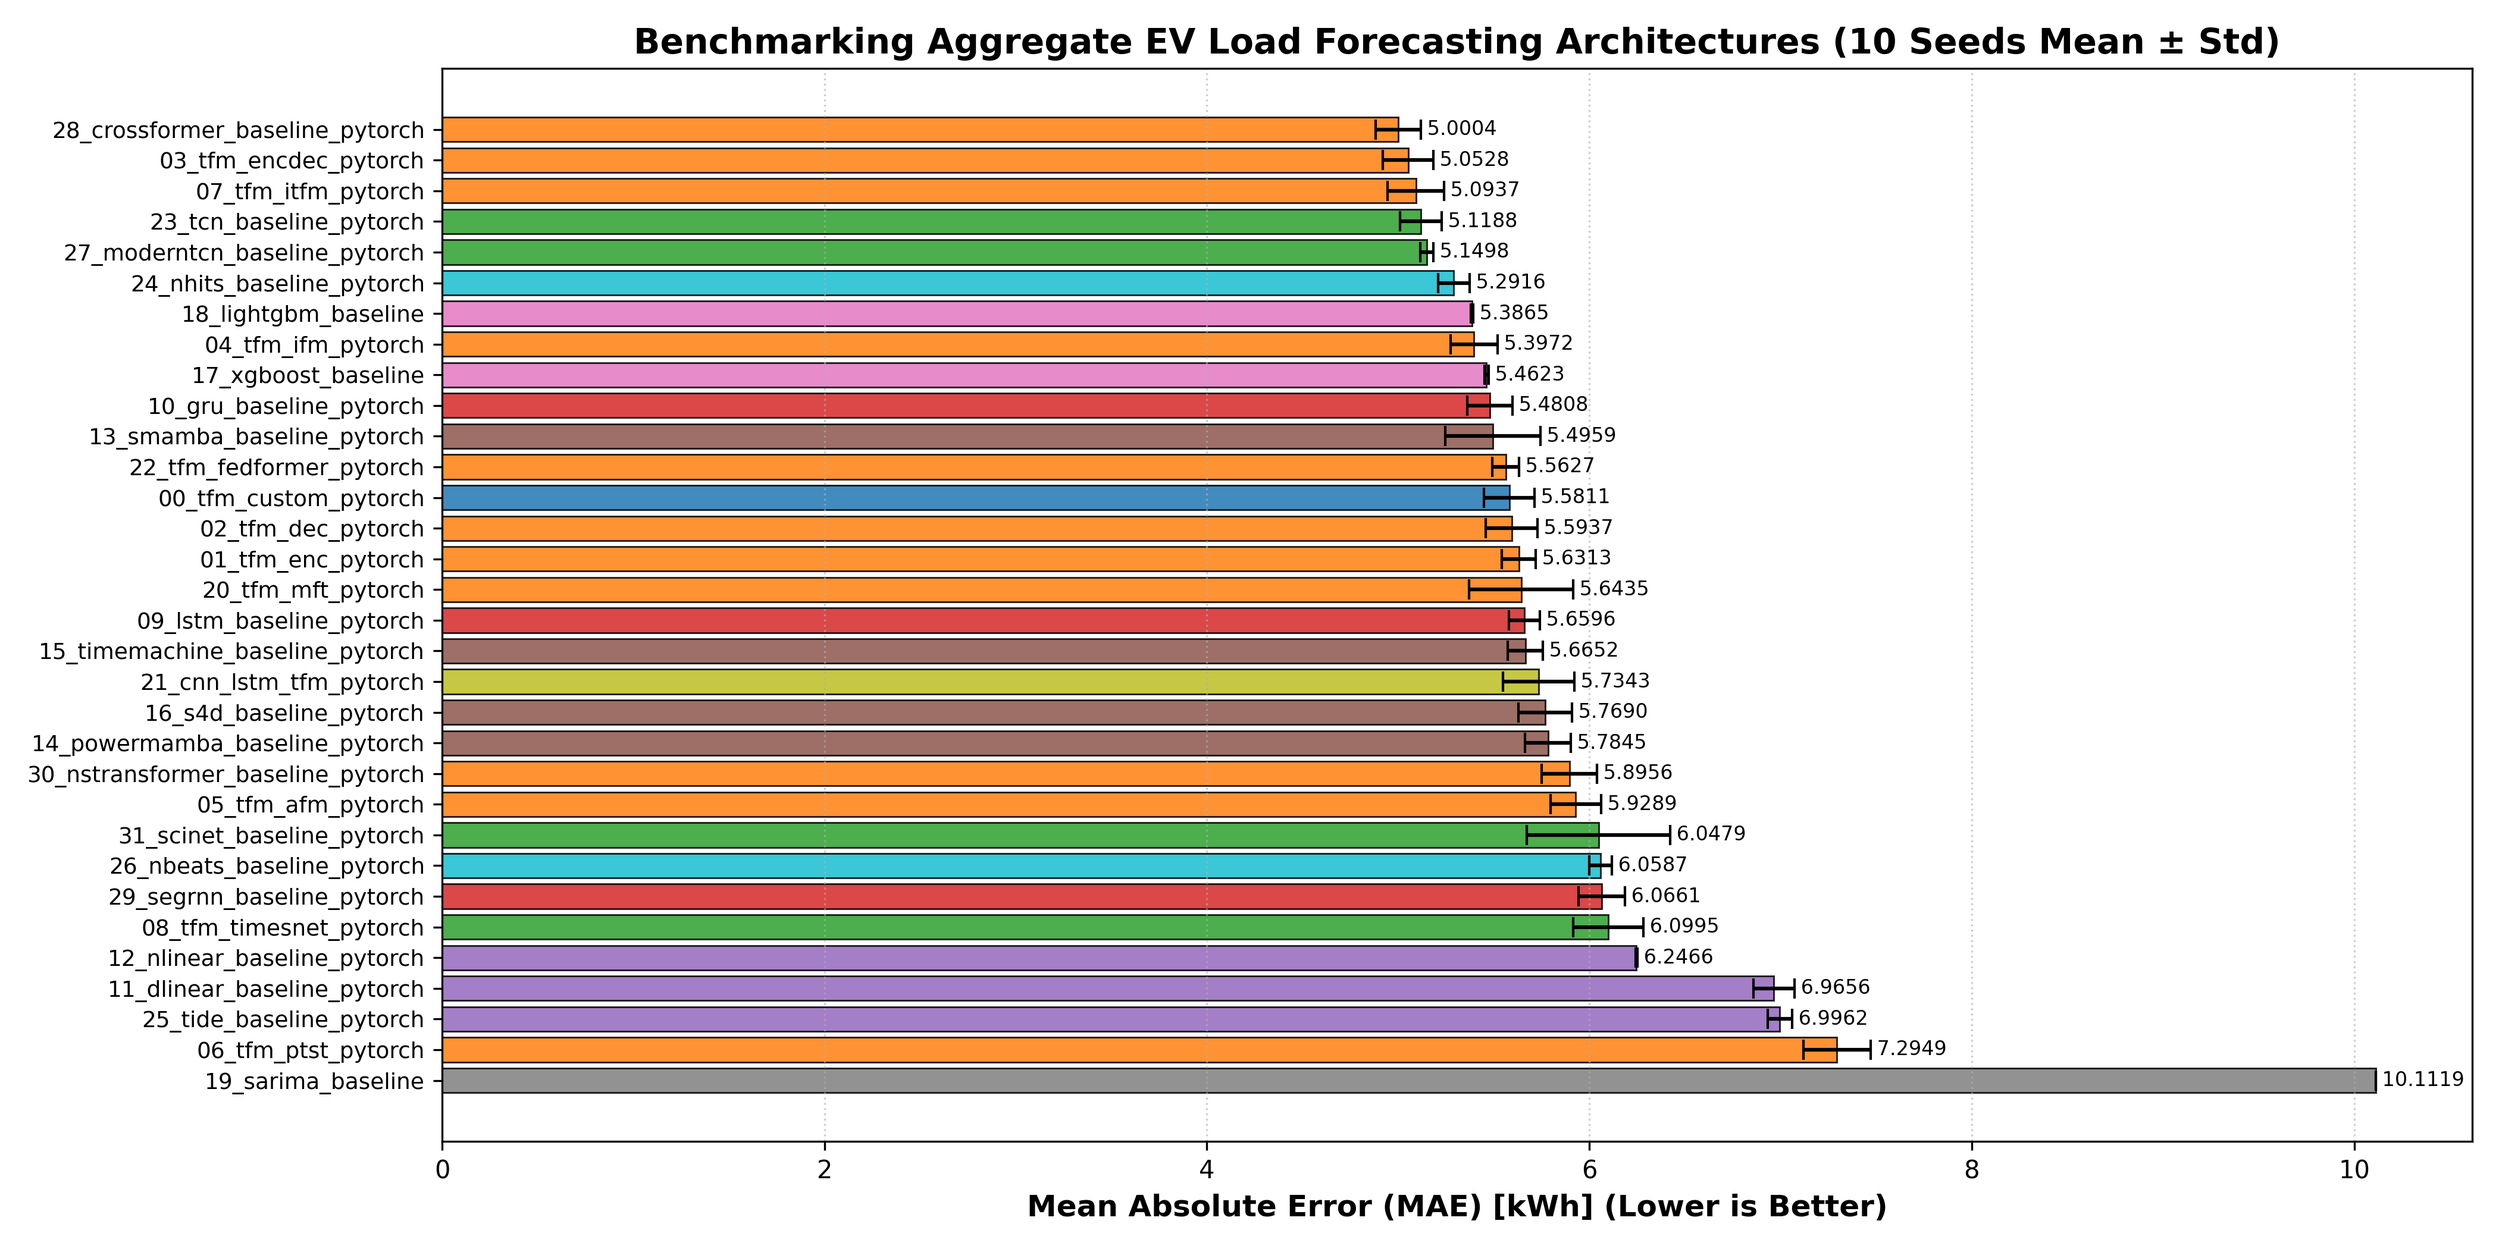
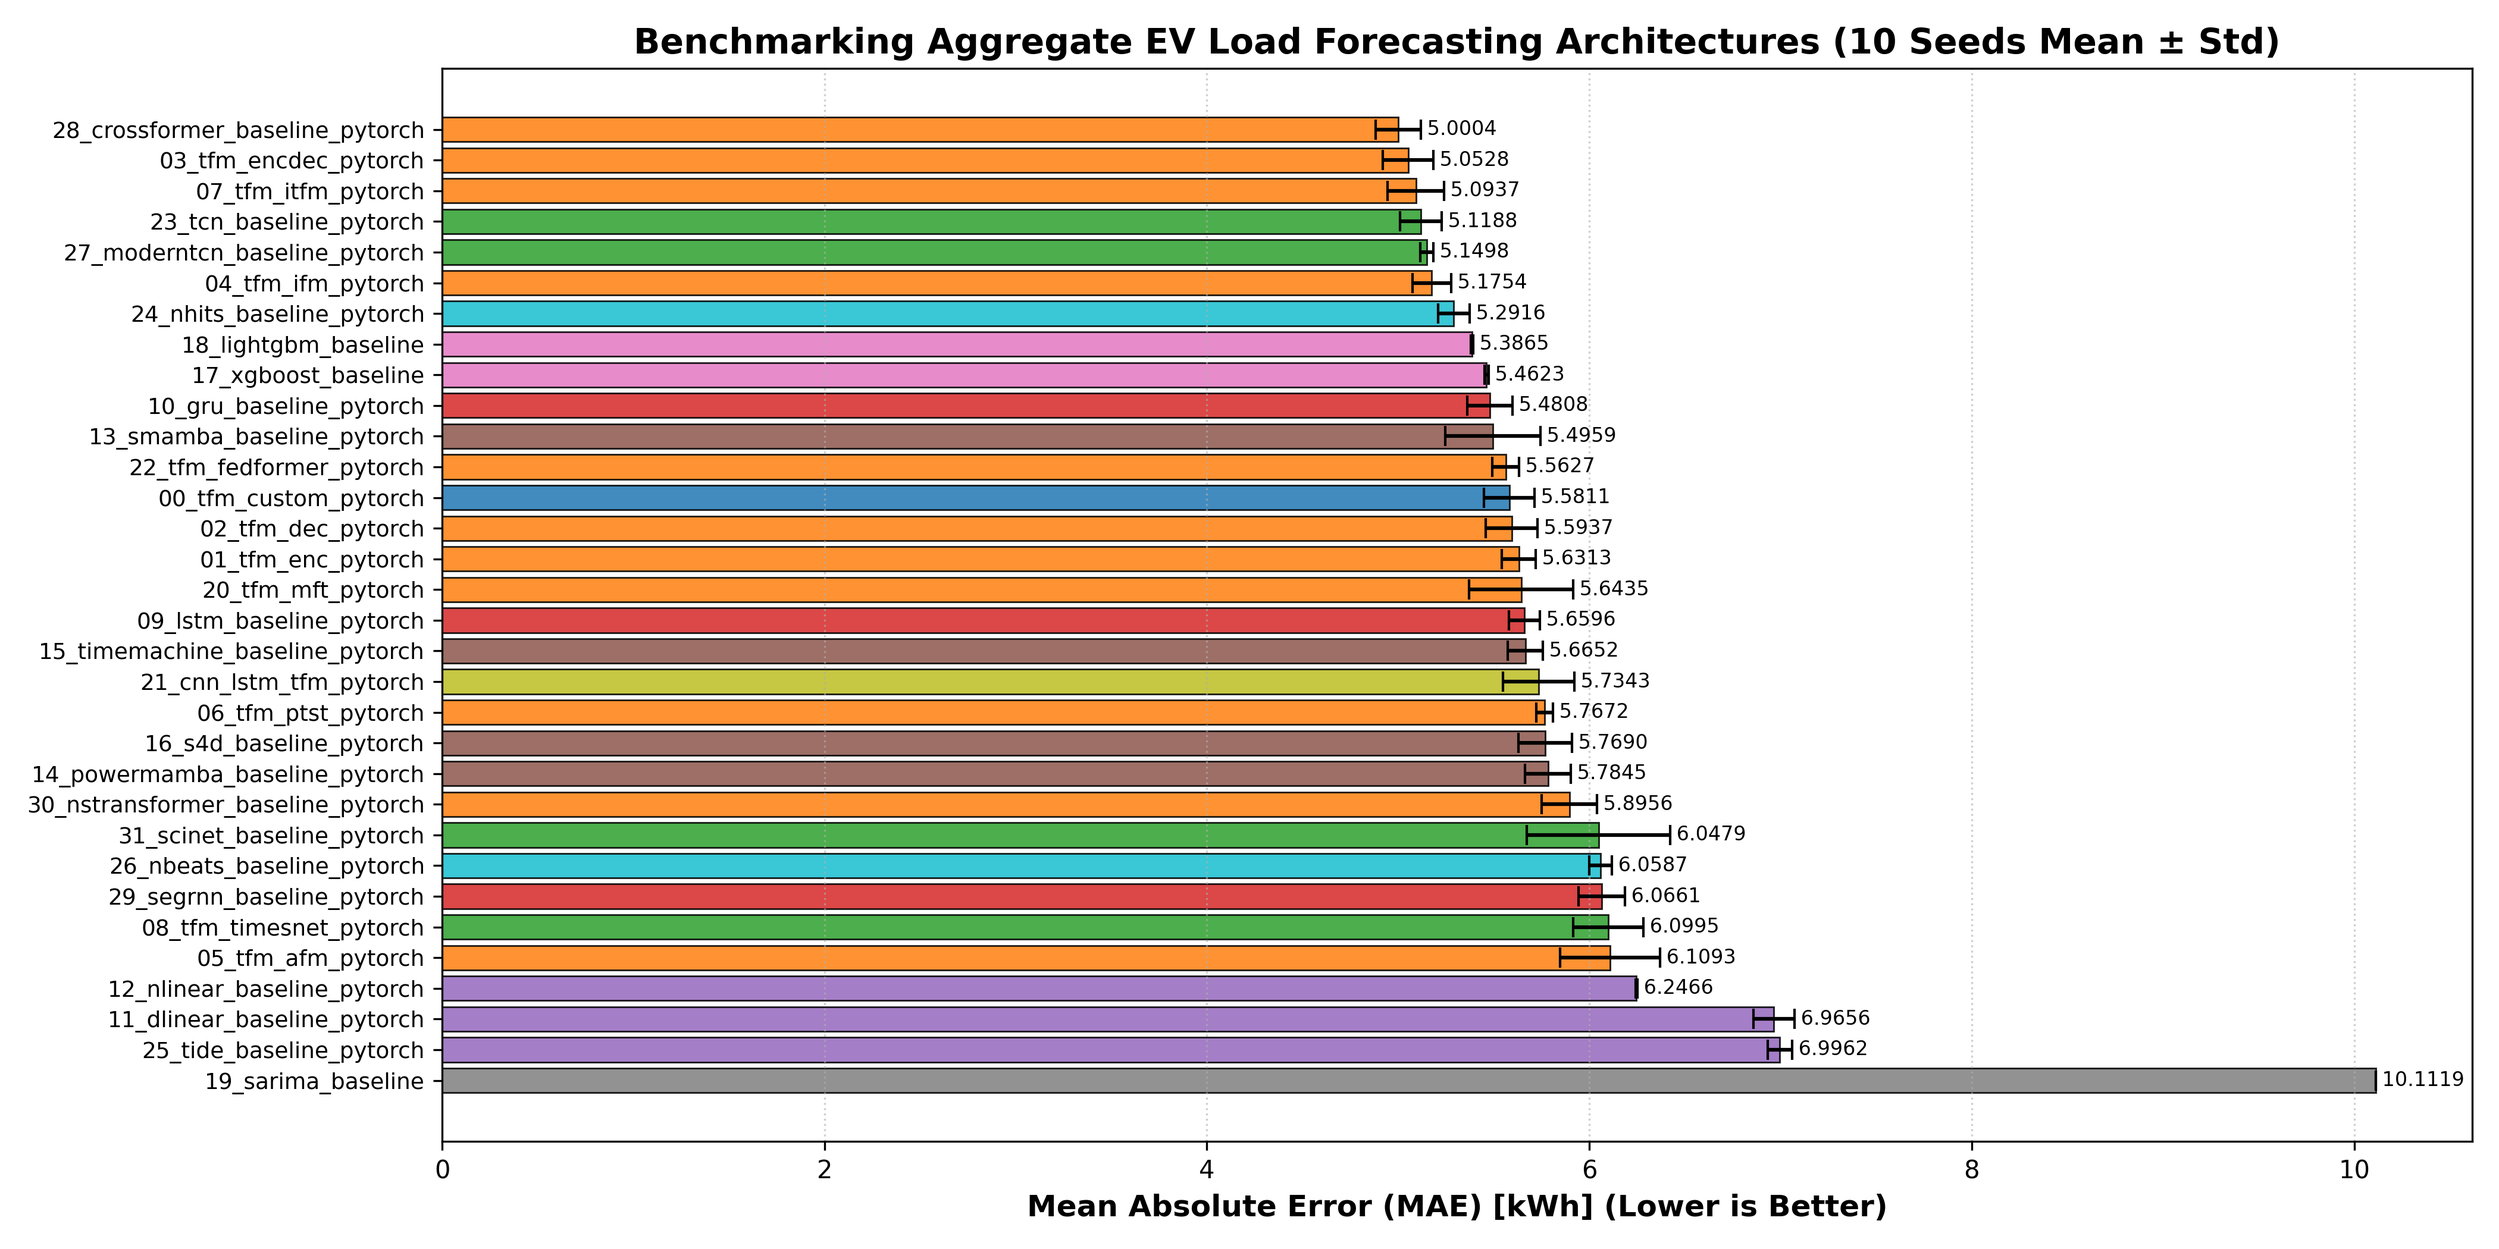
docs(benchmark): update 32-model rankings, plots, and document architectural pitfalls on EV load

diff --git a/docs/benchmark_summary.tex b/docs/benchmark_summary.tex
@@ -12,9 +12,9 @@
 07\_tfm\_itfm\_pytorch & Transformer & $5.0937 \pm 0.1477$ & $7.5109 \pm 0.1545$ & $59.82 \pm 1.73$ & $0.7055$ & N/A \\
 23\_tcn\_baseline\_pytorch & CNN / 2D Temporal & $5.1188 \pm 0.1077$ & $7.4927 \pm 0.1225$ & $60.11 \pm 1.27$ & $0.7069$ & 161,392 \\
 27\_moderntcn\_baseline\_pytorch & CNN (ModernTCN) & $5.1498 \pm 0.0340$ & $8.0072 \pm 0.0735$ & $60.48 \pm 0.40$ & $0.6654$ & 767,112 \\
+04\_tfm\_ifm\_pytorch & Transformer & $5.1754 \pm 0.1009$ & $7.9190 \pm 0.1008$ & $60.78 \pm 1.19$ & $0.6727$ & 654,337 \\
 24\_nhits\_baseline\_pytorch & Basis Expansion & $5.2916 \pm 0.0827$ & $7.7747 \pm 0.1053$ & $62.14 \pm 0.97$ & $0.6845$ & 2,308,530 \\
 18\_lightgbm\_baseline & Tree-based GBDT & $5.3865 \pm 0.0059$ & $8.1150 \pm 0.0070$ & $63.26 \pm 0.07$ & $0.6563$ & 48,000 \\
-04\_tfm\_ifm\_pytorch & Transformer & $5.3972 \pm 0.1241$ & $8.0262 \pm 0.1322$ & $63.38 \pm 1.46$ & $0.6637$ & 120,592 \\
 17\_xgboost\_baseline & Tree-based GBDT & $5.4623 \pm 0.0099$ & $8.1352 \pm 0.0087$ & $64.15 \pm 0.12$ & $0.6546$ & 48,000 \\
 10\_gru\_baseline\_pytorch & Recurrent (RNN) & $5.4808 \pm 0.1177$ & $7.8744 \pm 0.1160$ & $64.37 \pm 1.38$ & $0.6763$ & 54,640 \\
 13\_smamba\_baseline\_pytorch & State Space Model & $5.4959 \pm 0.2483$ & $8.7047 \pm 0.4660$ & $64.54 \pm 2.92$ & $0.6034$ & 333,288 \\
@@ -26,18 +26,18 @@
 09\_lstm\_baseline\_pytorch & Recurrent (RNN) & $5.6596 \pm 0.0804$ & $8.1586 \pm 0.1706$ & $66.47 \pm 0.94$ & $0.6525$ & 62,960 \\
 15\_timemachine\_baseline\_pytorch & State Space Model & $5.6652 \pm 0.0910$ & $8.1436 \pm 0.0790$ & $66.53 \pm 1.07$ & $0.6539$ & 38,448 \\
 21\_cnn\_lstm\_tfm\_pytorch & Hybrid Architecture & $5.7343 \pm 0.1865$ & $8.4143 \pm 0.2966$ & $67.34 \pm 2.19$ & $0.6301$ & 685,104 \\
+06\_tfm\_ptst\_pytorch & Transformer & $5.7672 \pm 0.0432$ & $9.2539 \pm 0.0509$ & $67.73 \pm 0.51$ & $0.5531$ & 542,056 \\
 16\_s4d\_baseline\_pytorch & State Space Model & $5.7690 \pm 0.1409$ & $8.3191 \pm 0.1640$ & $67.75 \pm 1.65$ & $0.6387$ & 27,984 \\
 14\_powermamba\_baseline\_pytorch & State Space Model & $5.7845 \pm 0.1200$ & $8.2071 \pm 0.1632$ & $67.93 \pm 1.41$ & $0.6483$ & 45,360 \\
 30\_nstransformer\_baseline\_pytorch & Transformer (NS-Tfm) & $5.8956 \pm 0.1437$ & $8.6152 \pm 0.1732$ & $69.24 \pm 1.69$ & $0.6125$ & 113,873 \\
-05\_tfm\_afm\_pytorch & Transformer & $5.9289 \pm 0.1330$ & $8.6172 \pm 0.1860$ & $69.63 \pm 1.56$ & $0.6123$ & 926,978 \\
 31\_scinet\_baseline\_pytorch & Convolutional (SCINet) & $6.0479 \pm 0.3763$ & $8.5736 \pm 0.4783$ & $71.03 \pm 4.42$ & $0.6152$ & 18,376,753 \\
 26\_nbeats\_baseline\_pytorch & Basis Expansion & $6.0587 \pm 0.0586$ & $9.3085 \pm 0.0304$ & $71.15 \pm 0.69$ & $0.5478$ & 1,036,864 \\
 29\_segrnn\_baseline\_pytorch & Recurrent (SegRNN) & $6.0661 \pm 0.1210$ & $9.4696 \pm 0.0945$ & $71.24 \pm 1.42$ & $0.5320$ & 800,012 \\
 08\_tfm\_timesnet\_pytorch & CNN / 2D Temporal & $6.0995 \pm 0.1824$ & $8.8674 \pm 0.2681$ & $71.63 \pm 2.14$ & $0.5893$ & N/A \\
+05\_tfm\_afm\_pytorch & Transformer & $6.1093 \pm 0.2615$ & $8.8067 \pm 0.3654$ & $71.75 \pm 3.07$ & $0.5945$ & 350,210 \\
 12\_nlinear\_baseline\_pytorch & Linear & Decomp & $6.2466 \pm 0.0036$ & $10.4387 \pm 0.0011$ & $73.36 \pm 0.04$ & $0.4313$ & 4,656 \\
 11\_dlinear\_baseline\_pytorch & Linear & Decomp & $6.9656 \pm 0.1071$ & $10.4281 \pm 0.0434$ & $81.80 \pm 1.26$ & $0.4325$ & 9,312 \\
 25\_tide\_baseline\_pytorch & Linear / Dense MLP & $6.9962 \pm 0.0631$ & $10.4550 \pm 0.0326$ & $82.16 \pm 0.74$ & $0.4295$ & 1,833,396 \\
-06\_tfm\_ptst\_pytorch & Transformer & $7.2949 \pm 0.1759$ & $10.7911 \pm 0.2136$ & $85.67 \pm 2.07$ & $0.3921$ & 542,056 \\
 19\_sarima\_baseline & Statistical Baseline & $10.1119 \pm 0.0000$ & $13.8129 \pm 0.0000$ & $108.27 \pm 0.00$ & $0.1407$ & 4 \\
 \bottomrule
 \end{tabular}%

diff --git a/docs/benchmark_summary.md b/docs/benchmark_summary.md
@@ -10,9 +10,9 @@
 | 3 | `07_tfm_itfm_pytorch` | Transformer | 5.0937 ± 0.1477 | 7.5109 ± 0.1545 | 59.82% ± 1.73% | **11.1202** | 0.7055 | N/A | 60.7s |
 | 4 | `23_tcn_baseline_pytorch` | CNN / 2D Temporal | 5.1188 ± 0.1077 | 7.4927 ± 0.1225 | 60.11% ± 1.27% | 13.3974 | 0.7069 | 161,392 | 20.3s |
 | 5 | `27_moderntcn_baseline_pytorch` | CNN (ModernTCN) | 5.1498 ± 0.0340 | 8.0072 ± 0.0735 | 60.48% ± 0.40% | 15.7185 | 0.6654 | 767,112 | 37.2s |
-| 6 | `24_nhits_baseline_pytorch` | Basis Expansion | 5.2916 ± 0.0827 | 7.7747 ± 0.1053 | 62.14% ± 0.97% | 12.9767 | 0.6845 | 2,308,530 | 27.5s |
-| 7 | `18_lightgbm_baseline` | Tree-based GBDT | 5.3865 ± 0.0059 | 8.1150 ± 0.0070 | 63.26% ± 0.07% | 14.7259 | 0.6563 | 48,000 | 196.4s |
-| 8 | `04_tfm_ifm_pytorch` | Transformer | 5.3972 ± 0.1241 | 8.0262 ± 0.1322 | 63.38% ± 1.46% | 13.2090 | 0.6637 | 120,592 | 208.3s |
+| 6 | `04_tfm_ifm_pytorch` | Transformer | 5.1754 ± 0.1009 | 7.9190 ± 0.1008 | 60.78% ± 1.19% | 12.4838 | 0.6727 | 654,337 | 62.3s |
+| 7 | `24_nhits_baseline_pytorch` | Basis Expansion | 5.2916 ± 0.0827 | 7.7747 ± 0.1053 | 62.14% ± 0.97% | 12.9767 | 0.6845 | 2,308,530 | 27.5s |
+| 8 | `18_lightgbm_baseline` | Tree-based GBDT | 5.3865 ± 0.0059 | 8.1150 ± 0.0070 | 63.26% ± 0.07% | 14.7259 | 0.6563 | 48,000 | 196.4s |
 | 9 | `17_xgboost_baseline` | Tree-based GBDT | 5.4623 ± 0.0099 | 8.1352 ± 0.0087 | 64.15% ± 0.12% | 14.7549 | 0.6546 | 48,000 | 49.5s |
 | 10 | `10_gru_baseline_pytorch` | Recurrent (RNN) | 5.4808 ± 0.1177 | 7.8744 ± 0.1160 | 64.37% ± 1.38% | 13.3875 | 0.6763 | 54,640 | 23.5s |
 | 11 | `13_smamba_baseline_pytorch` | State Space Model | 5.4959 ± 0.2483 | 8.7047 ± 0.4660 | 64.54% ± 2.92% | 17.2869 | 0.6034 | 333,288 | 358.2s |
@@ -24,16 +24,16 @@
 | 17 | `09_lstm_baseline_pytorch` | Recurrent (RNN) | 5.6596 ± 0.0804 | 8.1586 ± 0.1706 | 66.47% ± 0.94% | 13.7514 | 0.6525 | 62,960 | 12.9s |
 | 18 | `15_timemachine_baseline_pytorch` | State Space Model | 5.6652 ± 0.0910 | 8.1436 ± 0.0790 | 66.53% ± 1.07% | 14.6931 | 0.6539 | 38,448 | 428.0s |
 | 19 | `21_cnn_lstm_tfm_pytorch` | Hybrid Architecture | 5.7343 ± 0.1865 | 8.4143 ± 0.2966 | 67.34% ± 2.19% | 13.8747 | 0.6301 | 685,104 | 17.3s |
-| 20 | `16_s4d_baseline_pytorch` | State Space Model | 5.7690 ± 0.1409 | 8.3191 ± 0.1640 | 67.75% ± 1.65% | 13.4052 | 0.6387 | 27,984 | 19.4s |
-| 21 | `14_powermamba_baseline_pytorch` | State Space Model | 5.7845 ± 0.1200 | 8.2071 ± 0.1632 | 67.93% ± 1.41% | 14.2565 | 0.6483 | 45,360 | 107.4s |
-| 22 | `30_nstransformer_baseline_pytorch` | Transformer (NS-Tfm) | 5.8956 ± 0.1437 | 8.6152 ± 0.1732 | 69.24% ± 1.69% | 15.2207 | 0.6125 | 113,873 | 24.2s |
-| 23 | `05_tfm_afm_pytorch` | Transformer | 5.9289 ± 0.1330 | 8.6172 ± 0.1860 | 69.63% ± 1.56% | 14.2734 | 0.6123 | 926,978 | 48.1s |
+| 20 | `06_tfm_ptst_pytorch` | Transformer | 5.7672 ± 0.0432 | 9.2539 ± 0.0509 | 67.73% ± 0.51% | 18.7351 | 0.5531 | 542,056 | 166.4s |
+| 21 | `16_s4d_baseline_pytorch` | State Space Model | 5.7690 ± 0.1409 | 8.3191 ± 0.1640 | 67.75% ± 1.65% | 13.4052 | 0.6387 | 27,984 | 19.4s |
+| 22 | `14_powermamba_baseline_pytorch` | State Space Model | 5.7845 ± 0.1200 | 8.2071 ± 0.1632 | 67.93% ± 1.41% | 14.2565 | 0.6483 | 45,360 | 107.4s |
+| 23 | `30_nstransformer_baseline_pytorch` | Transformer (NS-Tfm) | 5.8956 ± 0.1437 | 8.6152 ± 0.1732 | 69.24% ± 1.69% | 15.2207 | 0.6125 | 113,873 | 24.2s |
 | 24 | `31_scinet_baseline_pytorch` | Convolutional (SCINet) | 6.0479 ± 0.3763 | 8.5736 ± 0.4783 | 71.03% ± 4.42% | 14.5122 | 0.6152 | 18,376,753 | 44.1s |
 | 25 | `26_nbeats_baseline_pytorch` | Basis Expansion | 6.0587 ± 0.0586 | 9.3085 ± 0.0304 | 71.15% ± 0.69% | 17.5791 | 0.5478 | 1,036,864 | 26.6s |
 | 26 | `29_segrnn_baseline_pytorch` | Recurrent (SegRNN) | 6.0661 ± 0.1210 | 9.4696 ± 0.0945 | 71.24% ± 1.42% | 16.9112 | 0.5320 | 800,012 | 38.8s |
 | 27 | `08_tfm_timesnet_pytorch` | CNN / 2D Temporal | 6.0995 ± 0.1824 | 8.8674 ± 0.2681 | 71.63% ± 2.14% | 16.1503 | 0.5893 | N/A | 127.9s |
-| 28 | `12_nlinear_baseline_pytorch` | Linear & Decomp | 6.2466 ± 0.0036 | 10.4387 ± 0.0011 | 73.36% ± 0.04% | 21.3976 | 0.4313 | 4,656 | 30.3s |
-| 29 | `11_dlinear_baseline_pytorch` | Linear & Decomp | 6.9656 ± 0.1071 | 10.4281 ± 0.0434 | 81.80% ± 1.26% | 19.6542 | 0.4325 | 9,312 | 24.6s |
-| 30 | `25_tide_baseline_pytorch` | Linear / Dense MLP | 6.9962 ± 0.0631 | 10.4550 ± 0.0326 | 82.16% ± 0.74% | 19.4354 | 0.4295 | 1,833,396 | 16.3s |
-| 31 | `06_tfm_ptst_pytorch` | Transformer | 7.2949 ± 0.1759 | 10.7911 ± 0.2136 | 85.67% ± 2.07% | 14.3890 | 0.3921 | 542,056 | 75.9s |
+| 28 | `05_tfm_afm_pytorch` | Transformer | 6.1093 ± 0.2615 | 8.8067 ± 0.3654 | 71.75% ± 3.07% | 14.2751 | 0.5945 | 350,210 | 172.3s |
+| 29 | `12_nlinear_baseline_pytorch` | Linear & Decomp | 6.2466 ± 0.0036 | 10.4387 ± 0.0011 | 73.36% ± 0.04% | 21.3976 | 0.4313 | 4,656 | 30.3s |
+| 30 | `11_dlinear_baseline_pytorch` | Linear & Decomp | 6.9656 ± 0.1071 | 10.4281 ± 0.0434 | 81.80% ± 1.26% | 19.6542 | 0.4325 | 9,312 | 24.6s |
+| 31 | `25_tide_baseline_pytorch` | Linear / Dense MLP | 6.9962 ± 0.0631 | 10.4550 ± 0.0326 | 82.16% ± 0.74% | 19.4354 | 0.4295 | 1,833,396 | 16.3s |
 | 32 | `19_sarima_baseline` | Statistical Baseline | 10.1119 ± 0.0000 | 13.8129 ± 0.0000 | 108.27% ± 0.00% | 20.3742 | 0.1407 | 4 | 11593.7s |

diff --git a/.wikiskill/wiki/model_pitfalls.md b/.wikiskill/wiki/model_pitfalls.md
@@ -49,4 +49,38 @@
 
 ## 6. Architecture Class Name Parity & Aliases
 - **Pitfall**: Defining `class ModelName(nn.Module):` but referencing `model = ModelNameModel(...)` in benchmark `run_seed` causes `NameError: name 'ModelNameModel' is not defined`.
-- **Rule**: Always verify instantiation matches class name exactly, and provide explicit aliases (e.g., `NHiTSModel = NHiTS`) when backward compatibility is helpful.\n
+- **Rule**: Always verify instantiation matches class name exactly, and provide explicit aliases (e.g., `NHiTSModel = NHiTS`) when backward compatibility is helpful.
+
+---
+
+## 7. Architecture Incompatibility on Intermittent EV Charging Load
+
+Based on the 32-model 10-seed production benchmark on Caltech ACN load ($L=96, H=48$):
+
+### Pitfall 7.1: Channel Independence (CI) & RevIN on Exogenous-Driven Intermittent Load
+- **Models**: `06_tfm_ptst` (PatchTST).
+- **Pitfall**:
+  1. *Channel Independence*: Isolating the target series prevents cross-attention with calendar (`Hour_sin/cos`, `DayOfWeek`) and weather (`temp`, `rhum`) features. EV load cannot be forecasted reliably without human behavioral context.
+  2. *RevIN Distortion*: Normalizing by lookback mean and std breaks when lookback mean is near zero (night) but future mean is peak (daytime). Lookback vs future mean differs by up to 22.58 kW, trapping denormalized predictions near zero ($R^2=0.5531$, Peak MAE=18.74 kW).
+- **Rule**: Never rely on pure channel-independent architectures without cross-variate attention for human-driven EV charging load.
+
+### Pitfall 7.2: Linear Decomposition & Last-Value Normalization on Pulse Spikes
+- **Models**: `11_dlinear`, `12_nlinear`, `25_tide`.
+- **Pitfall**:
+  1. *DLinear Moving Average*: Kernel smoothing strips sharp burst charging spikes, and 1-layer linear mapping fails to capture non-linear charging curves ($R^2=0.4325$, Horizon Deg +171.7%).
+  2. *NLinear Last-Value Offset*: Subtracting and adding $X_{-1}$ forces day forecasts to start from night zero-baseline, or night forecasts to start from daytime peak, causing catastrophic peak error (Peak MAE=21.40 kW, worst in benchmark).
+  3. *TiDE Dense MLP*: Linear decoding deteriorates by +172.7% over 48 steps without temporal attention.
+- **Rule**: Avoid linear models that rely on stationarity or moving average smoothing on stochastic pulse loads.
+
+### Pitfall 7.3: Phase Correlation & Basis Expansion Ringing on Discontinuous Pulses
+- **Models**: `05_tfm_afm` (Autoformer), `26_nbeats` (N-BEATS), `08_tfm_timesnet` (TimesNet).
+- **Pitfall**:
+  1. *Auto-Correlation (FFT)*: Assumes repetitive identical waveform phases; smooths stochastic charging pulses into sinusoidal waves, yielding 22.89% negative predictions.
+  2. *Fourier & Polynomial Basis*: Fourier harmonic expansion on steep discontinuous step loads triggers Gibbs phenomenon (ringing artifacts and large over/undershoots, $R^2=0.5478$).
+  3. *2D Periodicity Folding*: 2D Inception convolutions on folded 1D series introduce spatial smearing artifacts across days.
+- **Rule**: Prefer point-wise and cross-variate attention architectures over frequency-domain phase matching on non-smooth load data.
+
+### Pitfall 7.4: Overparameterization & Multi-Stream Overhead on Short Lookback
+- **Models**: `31_scinet` (18.37M params, Rank 24), `15_timemachine` (428s/seed, Rank 18).
+- **Pitfall**: Excessive parameter scaling (18.37M params) or quadruple Mamba state-space scanning yields no accuracy benefit over compact architectures (e.g. Model 00: 180k params, 38s/seed, Rank 13).
+- **Rule**: Cap parameter budget and avoid redundant multi-directional scans for sequence lengths $L \le 96$.\n

diff --git a/docs/model_suitability.md b/docs/model_suitability.md
@@ -196,14 +196,15 @@ The mean load decreases by ~61% across the observation window, indicating a stro
 
 ---
 
-### 3.9 PatchTST ✅✅ Strong
+### 3.9 PatchTST ⚠ Limited / Architecture Mismatch (Empirical Finding)
 
-**Specific advantages:**
-- **Patch-based tokenization** (patch_len=16, stride=8) converts the 96-step lookback into ~11 non-overlapping local segments, reducing sequence length fed to the Transformer encoder
-- **Channel-independent** (CI) encoding processes each of the 30 input features independently before combining — reduces parameter count while maintaining representation quality
-- **RevIN** instance normalization directly counteracts non-stationarity at inference time by normalizing per sample
+**Initial Expectation vs Empirical Benchmark Reality (Rank 20 / 32):**
+- **Patch-based tokenization** efficiently reduces temporal tokens ($L=96 \rightarrow 23$ patches with $P=8, S=4$).
+- **Empirical Failure (MAE $5.7672 \text{ kW}$, $R^2=0.5531$, Peak MAE $18.7351 \text{ kW}$):**
+  1. **Channel Independence (CI) Blindspot**: By isolating each variable, PatchTST cannot cross-attend between `kWhDelivered` and calendar/weather features (`Hour_sin/cos`, `DayOfWeek`, `temp`). For human-driven EV charging sessions, this makes the target series blind to behavioral drivers.
+  2. **RevIN Scaling Trap on Intermittent Data**: RevIN normalizes by the lookback mean/std. In EV load, the difference between lookback and future mean reaches up to $22.58 \text{ kW}$ ($5.13 \text{ kW}$ on average). If lookback falls in a zero-load night, RevIN suppresses the denormalized daytime peak, causing severe peak under-prediction.
 
-> **Role:** Expected to perform strongly given its explicit handling of both non-stationarity (RevIN) and computational efficiency (patch tokenization) — two of the main challenges identified in this dataset.
+> **Role in Thesis:** Serves as a major **empirical counter-example** demonstrating that the popular Channel Independence and RevIN paradigms of Nie et al. (ICLR 2023) fail on intermittent, human-driven EV charging load compared to cross-variate architectures like Model 00 (Proposed Custom Transformer) and Model 07 (iTransformer).
 
 ---
 
